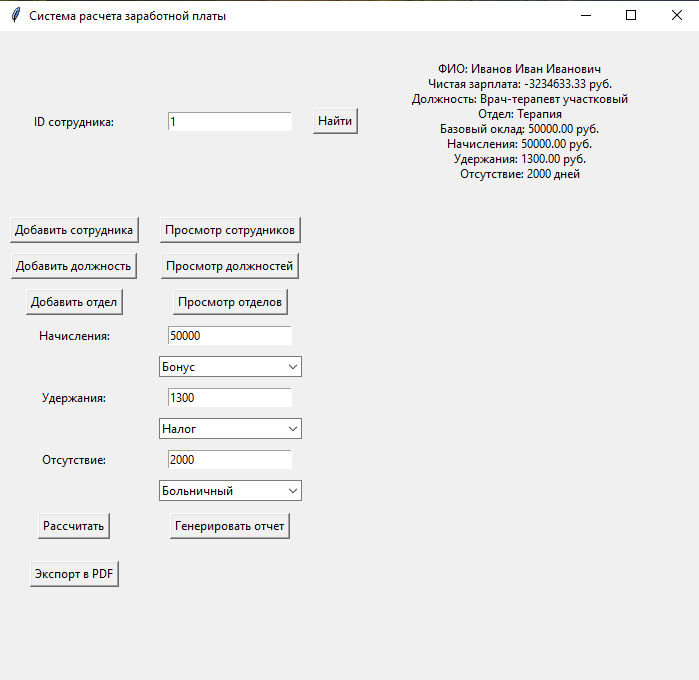
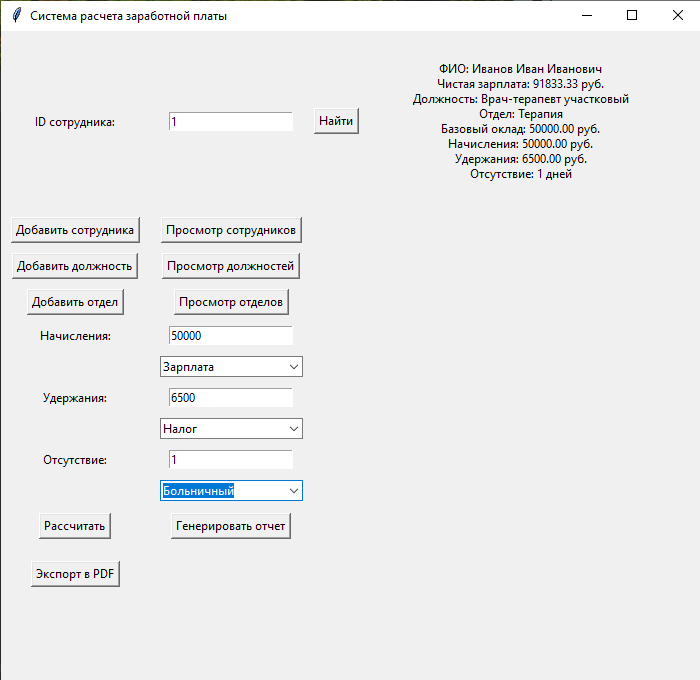
Обновлён скриншот, исправлено название

diff --git a/client/ui.py b/client/ui.py
@@ -68,9 +68,9 @@ class PayrollAppUI:
         self.accrual_entry = tk.Entry(self.root)
         self.accrual_entry.grid(row=6, column=1, padx=10, pady=5)
         self.accrual_type_var = tk.StringVar(self.root)
-        self.accrual_type_var.set("Бонус")  # Значение по умолчанию
+        self.accrual_type_var.set("Зарплата")  # Значение по умолчанию
         accrual_type_menu = ttk.Combobox(self.root, textvariable=self.accrual_type_var,
-                                         values=["Бонус", "Премия", "Компенсация"])
+                                         values=["Зарплата", "Премия", "Компенсация"])
         accrual_type_menu.grid(row=7, column=1, padx=10, pady=5)
 
         # Удержания
